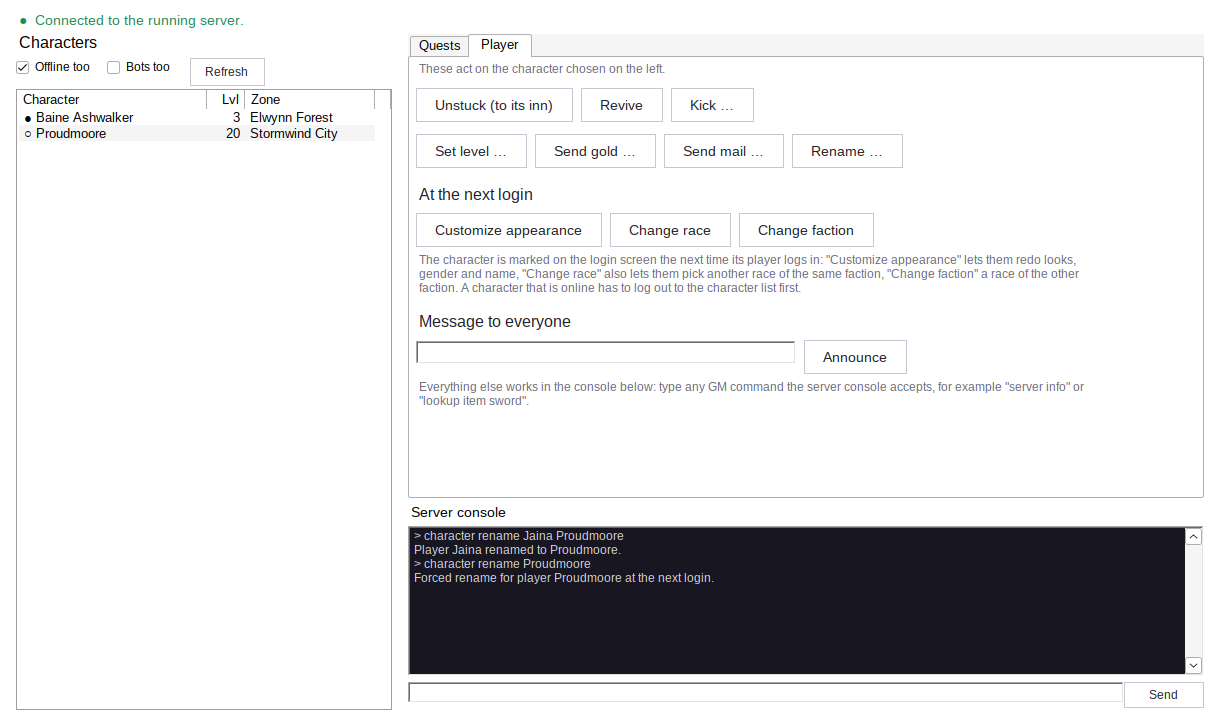
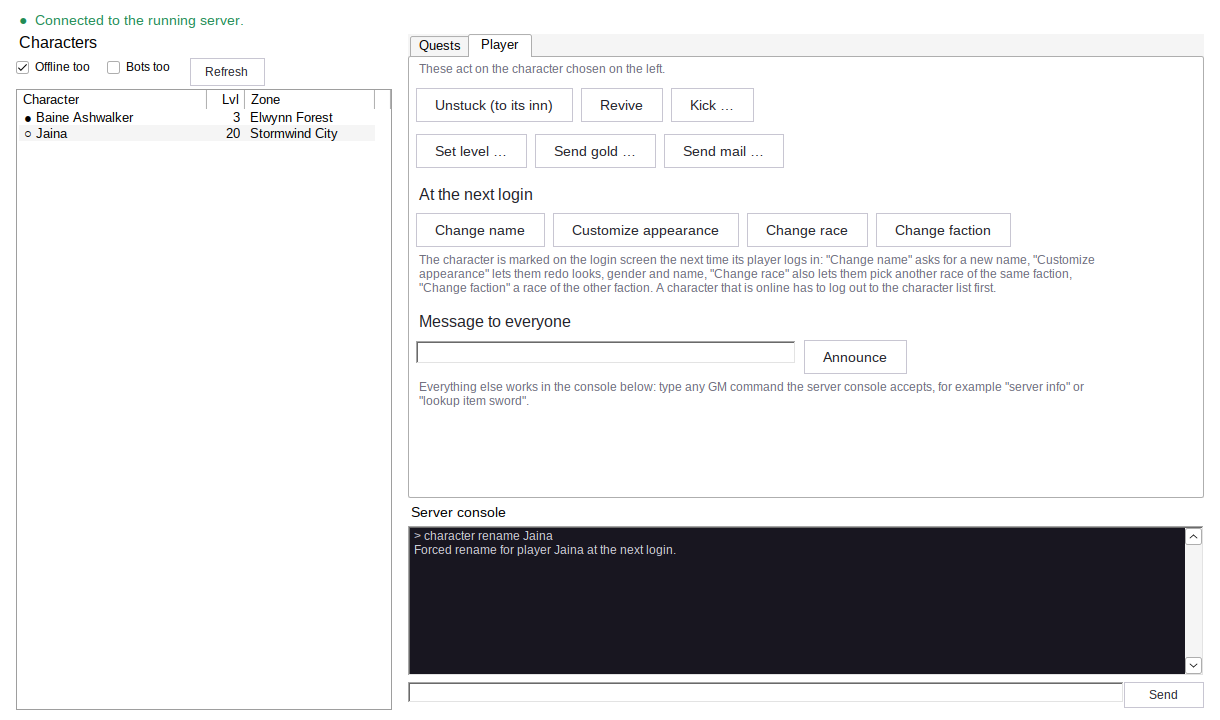
Game master tools: "Change name" sits with the other next-login actions
The player chooses the new name at the next login, like customize, race
and faction change.

diff --git a/src/GameMasterDialog.cs b/src/GameMasterDialog.cs
@@ -117,15 +117,15 @@ namespace CoAInstaller
                 if (v == null || v[0].Trim().Length == 0) return;
                 Player("send mail {0} \"" + Clean(v[0]) + "\" \"" + Clean(v[1]) + "\"", null);
             }));
-            p2.Controls.Add(Action("Rename …", Rename));
             player.Controls.Add(p2);
             player.Controls.Add(Ui.Heading("At the next login"));
             var p4 = Ui.Row();
+            p4.Controls.Add(Action("Change name", () => Player("character rename {0}", null)));
             p4.Controls.Add(Action("Customize appearance", () => Player("character customize {0}", null)));
             p4.Controls.Add(Action("Change race", () => Player("character changerace {0}", null)));
             p4.Controls.Add(Action("Change faction", () => Player("character changefaction {0}", null)));
             player.Controls.Add(p4);
-            player.Controls.Add(Ui.Hint("The character is marked on the login screen the next time its player logs in: \"Customize appearance\" lets them redo looks, gender and name, \"Change race\" also lets them pick another race of the same faction, \"Change faction\" a race of the other faction. A character that is online has to log out to the character list first.", 700));
+            player.Controls.Add(Ui.Hint("The character is marked on the login screen the next time its player logs in: \"Change name\" asks for a new name, \"Customize appearance\" lets them redo looks, gender and name, \"Change race\" also lets them pick another race of the same faction, \"Change faction\" a race of the other faction. A character that is online has to log out to the character list first.", 700));
             player.Controls.Add(Ui.Heading("Message to everyone"));
             var p3 = Ui.Row(); p3.Controls.Add(announce);
             p3.Controls.Add(Action("Announce", () => { string t = Clean(announce.Text); if (t.Length > 0) { Send("announce " + t, null); announce.Text = ""; } }));
@@ -270,37 +270,6 @@ namespace CoAInstaller
             history.Remove(command); history.Add(command); historyAt = history.Count;
             input.Text = "";
             Send(command, null);
-        }
-
-        /// <summary>
-        /// Gives the character a new name right away, or - with no name entered - lets the player pick
-        /// one at the next login. The server's command takes the new name as a single word, so a name
-        /// with a first and a last part can only be chosen by the player on the login screen.
-        /// </summary>
-        void Rename()
-        {
-            var who = Who;
-            if (who == null) { Ui.Error(this, "Choose a character on the left first."); return; }
-            string v = Prompt.Ask(this, "Rename " + who.Name, "New name (leave empty to let the player choose at the next login)", "");
-            if (v == null) return;
-            v = v.Trim();
-            if (v.Length == 0) { Player("character rename {0}", null); return; }
-            if (v.IndexOf(' ') >= 0)
-            {
-                Ui.Error(this, "A name with a first and a last part cannot be set from here. Leave the field empty instead: the player then types the new name on the login screen, where both parts are possible.");
-                return;
-            }
-            foreach (char c in v) if (!char.IsLetter(c)) { Ui.Error(this, "A character name consists of letters only."); return; }
-            if (v.Length > 12) { Ui.Error(this, "A character name has at most 12 letters."); return; }
-            v = char.ToUpper(v[0]) + v.Substring(1).ToLower();
-            if (who.Online && !Ui.Confirm(this, who.Name + " is online and is logged out by the rename. Rename now?")) return;
-            // The server writes the new name a moment after it answers; the list is read after that.
-            Player("character rename {0} " + v, () =>
-            {
-                var t = new Timer { Interval = 1500 };
-                t.Tick += (s, e) => { t.Stop(); t.Dispose(); if (!IsDisposed) LoadPeople(); };
-                t.Start();
-            });
         }
 
         void Player(string format, Action done)

diff --git a/RELEASE_NOTES.md b/RELEASE_NOTES.md
@@ -4,7 +4,7 @@ Build, run and tweak your own Conquest of Azeroth server (AzerothCore fork with 
 
 ## New in 0.6.1
 
-- **Rename a character**: *Game master tools → Player → Rename …* gives a character a new name right away. Leave the name empty and the player chooses it at the next login instead – that is also the way to a name with a first and a last part.
+- **Change a character's name**: *Game master tools → Player → Change name* marks a character so that its player chooses a new name at the next login – next to *Customize appearance*, *Change race* and *Change faction*.
 
 ## New in 0.6.0
 
@@ -22,7 +22,7 @@ Build, run and tweak your own Conquest of Azeroth server (AzerothCore fork with 
 
 - **Game master tools** (*Server management → Game master tools*): AFK Realm now talks to the running server. Starting the server through AFK Realm sets up the connection automatically (only reachable from your own PC).
 - **Quest helper**: type an NPC name, a quest title or a quest id and see the matching quests with who gives them and who takes them – read from your server's own database, so it fits CoA's changed world. Or let AFK Realm list the open quests around a character. Then *Give quest*, *Complete*, *Reward*, *Remove* or *Check* with one click, also for characters that are offline. Handy when a quest giver cannot be clicked or a quest item does not drop.
-- **Player actions**: unstuck (to the inn), revive, kick, set level, send gold or a mail, rename the character, let a player customize the character or change its race or faction at the next login, and an announcement to everyone.
+- **Player actions**: unstuck (to the inn), revive, kick, set level, send gold or a mail, let a player rename or customize the character or change its race or faction at the next login, and an announcement to everyone.
 - **Server console**: every other GM command can be typed right in the window; the server's answer is shown below.
 - **No more console windows**: authserver and worldserver now run in the background. *Open server consoles* shows both in one window, one above the other: what they print, and a command line for GM commands to the worldserver. The classic windows can be switched back on with one tick.
 - **User guide**: [docs/MANUAL.md](docs/MANUAL.md) explains every window – what it is for and how to use it.

diff --git a/docs/MANUAL.md b/docs/MANUAL.md
@@ -181,7 +181,7 @@ The server's answer appears in the console at the bottom.
 | **Set level …** | Sets the character's level. |
 | **Send gold …** | Sends gold by in-game mail. |
 | **Send mail …** | Sends an in-game mail with a subject and a text. |
-| **Rename …** | Gives the character a new name right away; a character that is online is logged out for it. Leave the field empty and the player types the new name at the next login instead – the only way to a name with a first and a last part. |
+| **Change name** | At the next login the player has to type a new name for the character on the login screen. |
 | **Customize appearance** | At the next login the player can redo the character's looks, gender and name on the login screen. |
 | **Change race** | At the next login the player can pick another race of the same faction (and redo the looks and the name). |
 | **Change faction** | At the next login the player can move the character to the other faction and pick one of its races. |

diff --git a/CHANGELOG.md b/CHANGELOG.md
@@ -2,7 +2,7 @@
 
 ## 0.6.1-preview
 
-- Game master tools: "Rename" gives a character a new name right away, or lets the player choose one at the next login
+- Game master tools: "Change name" lets the player choose a new character name at the next login
 
 ## 0.6.0-preview
 
